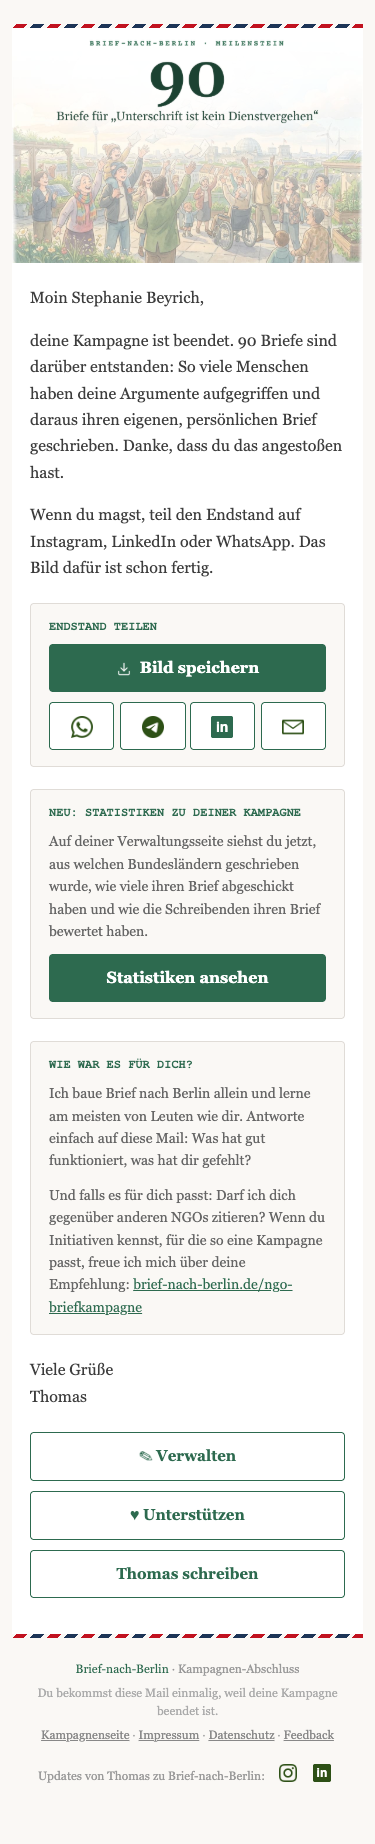
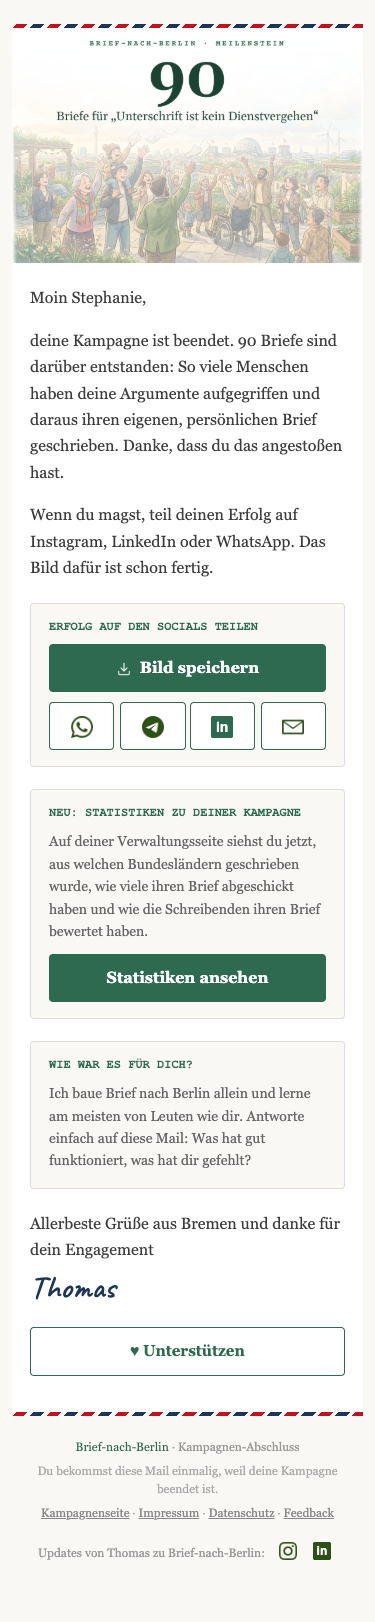
docs: Quick-Task 261009-mxa, Brand-Doku, Roadmap, Aktiv-werden (11 Stufen, Petitionskachel entfernt)

diff --git a/.planning/quick/261009-luq-kampagnen-abschluss-mail-fuer-beendete-k/preview/ended.html b/.planning/quick/261009-luq-kampagnen-abschluss-mail-fuer-beendete-k/preview/ended.html
@@ -70,9 +70,7 @@
               <p style="margin:0 0 22px;font-family:'Caveat','Brush Script MT','Lucida Handwriting',cursive;font-size:32px;color:#1D3557;line-height:1.1;">Thomas</p>
               <table role="presentation" cellpadding="0" cellspacing="0" width="100%" style="margin:0 0 26px;">
                 <tr>
-                  <td class="bnb-cta-cell" style="width:33.33%;padding-right:5px;" valign="top"><a href="https://www.brief-nach-berlin.de/kampagne/verwalten?token=vorschau" target="_blank" rel="noopener noreferrer" class="bnb-cta-link" style="display:block;text-align:center;background-color:#ffffff;color:#2D6A4F;font-size:15px;font-weight:bold;text-decoration:none;padding:12px 8px;border-radius:4px;border:1px solid #2D6A4F;line-height:1.25;">&#9998;&nbsp;Verwalten</a></td>
-                  <td class="bnb-cta-cell" style="width:33.33%;padding:0 5px;" valign="top"><a href="https://spende.we-aid.org/Brief-nach-Berlin" target="_blank" rel="noopener noreferrer" class="bnb-cta-link" style="display:block;text-align:center;background-color:#ffffff;color:#2D6A4F;font-size:15px;font-weight:bold;text-decoration:none;padding:12px 8px;border-radius:4px;border:1px solid #2D6A4F;line-height:1.25;">&#9829;&nbsp;Unterstützen</a></td>
-                  <td class="bnb-cta-cell" style="width:33.33%;padding-left:5px;" valign="top"><a href="mailto:Brief-nach-Berlin@posteo.de" class="bnb-cta-link" style="display:block;text-align:center;background-color:#ffffff;color:#2D6A4F;font-size:15px;font-weight:bold;text-decoration:none;padding:12px 8px;border-radius:4px;border:1px solid #2D6A4F;line-height:1.25;">Thomas schreiben</a></td>
+                  <td class="bnb-cta-cell" style="width:100%;padding-right:5px;" valign="top"><a href="https://spende.we-aid.org/Brief-nach-Berlin" target="_blank" rel="noopener noreferrer" class="bnb-cta-link" style="display:block;text-align:center;background-color:#ffffff;color:#2D6A4F;font-size:15px;font-weight:bold;text-decoration:none;padding:12px 8px;border-radius:4px;border:1px solid #2D6A4F;line-height:1.25;">&#9829;&nbsp;Unterstützen</a></td>
                 </tr>
               </table>
             </td>

diff --git a/web/src/app/(site)/aktiv-werden/page.tsx b/web/src/app/(site)/aktiv-werden/page.tsx
@@ -112,34 +112,18 @@ const cards: ActionCard[] = [
     cta: "Mehr zu Stufe 6",
   },
   {
-    kicker: "Mitzeichnen, 60 Sekunden",
-    title: "Unterstütze die Petition Bremen Rauchfrei",
-    body: (
-      <p>
-        Eine Petition für mehr rauchfreie Außenbereiche in Bremen, von einem
-        Bremer Bürger gestartet. Mitzeichnen kostet eine Minute und ist eines
-        der niedrigschwelligsten politischen Werkzeuge überhaupt: bei 30.000
-        Mitzeichnungen wird eine Bundestags-Petition öffentlich angehört, bei
-        Landes- und Kommunalpetitionen ist die Hürde noch niedriger.
-      </p>
-    ),
-    href: "https://bremen-rauchfrei.de",
-    cta: "Zur Petition",
-    external: true,
-  },
-  {
     kicker: "Der ganze Überblick",
     title: "Die Treppe der politischen Selbstwirksamkeit",
     body: (
       <p>
-        Zehn Stufen, sortiert nach Aufwand: von &bdquo;Wählen gehen&ldquo; über
+        Elf Stufen, sortiert nach Aufwand: von &bdquo;Wählen gehen&ldquo; über
         &bdquo;Leserbrief schreiben&ldquo; bis &bdquo;eigene Bürgerinitiative gründen&ldquo;. Such dir
         die nächste Stufe, die du dir zutraust, und nimm sie. Wer auf Stufe 3
         steht (Brief schreiben), ist schon weiter als 95 % der Bevölkerung.
       </p>
     ),
     href: "/treppe-der-selbstwirksamkeit",
-    cta: "Alle 10 Stufen ansehen",
+    cta: "Alle 11 Stufen ansehen",
   },
 ];
 

diff --git a/.planning/ROADMAP.md b/.planning/ROADMAP.md
@@ -78,6 +78,123 @@ Plans:
 
 ## Backlog
 
+### Phase 999.37: Kampagnen: persönlicher Aufhänger im Wizard (BACKLOG)
+
+**Goal:** Kampagnenbriefe sollen eine persönliche Note bekommen. Viele
+Besucher:innen schicken die Vorlage unverändert ab (Annahme, das Tracking in
+diesem Item prüft das). Ein optionales Feld mit kampagnenspezifischen
+Aufhängern macht es leicht, in ein paar Wörtern zu sagen, wie man selbst
+betroffen ist. Zusammen mit 999.38 sollen viele Briefe einer Kampagne dasselbe
+Thema tragen, ohne dass ein Abgeordnetenbüro eine Vorlage erkennt.
+
+**Scope:**
+- Wizard-Schritt 2b (`StepPreferences`), nur im Kampagnenmodus: optionales Feld
+  "Möchtest du noch etwas Persönliches hinzufügen?". Es erscheint nur, wenn das
+  Anliegen gegenüber der Kampagnenvorlage unverändert ist.
+- Wechselnder Placeholder im Textfeld (z. B. "Letzten Winter habe ich …").
+  Diktieren per Sprache über die bestehende Transkription.
+- Aufhänger-Chips: Bei Erstellung und bei jeder Änderung von `issue_text`
+  erzeugt Mistral 5–6 kampagnenspezifische Aufhänger. Das läuft im bestehenden
+  `after()`-Hook der Themen-Klassifizierung
+  (`web/src/lib/actions/createCampaignDraft.ts:353`, `updateCampaign.ts:334`)
+  mit demselben Schutz `.eq("issue_text", …)`. Gespeichert in einer neuen
+  Spalte in `campaigns` (Migration), das sind Daten des Creators. Der Browser
+  würfelt pro Aufruf 3 davon. Ein Klick fügt einen Chip ins Feld ein, ein Klick
+  auf einen anderen ersetzt ihn, es ist immer nur einer aktiv.
+- Aufhänger sind offene Satzanfänge, die man selbst zu Ende schreibt, keine
+  fertigen Behauptungen. Sonst klicken Leute Fakten an, die nicht stimmen, und
+  dieselben Sätze tauchen in vielen Briefen auf.
+- Eigenes optionales Request-Feld `personalNote`: `WizardData`
+  (`web/src/lib/types/wizard.ts`), `wizardSchemas.ts`, Wizard-State,
+  `/api/generate-letter`, Prompt. Im Prompt ein eigener Block mit Vorrang: Der
+  Satz trägt den Brief.
+- Prompt-Regel: Persönliche Details kommen nur aus `personalNote`, dem Anliegen
+  und PLZ/Ort, nichts wird erfunden. Weder das Wort "Kampagne" noch der Name des
+  Creators stehen im Brief.
+- Tracking nur im Debug-Payload (`web/src/lib/email/buildDebugPayload.ts`):
+  `hasPersonalNote` und `campaignTextEdited`. Den zweiten Wert berechnet der
+  Server per Vergleich mit `campaign.issueText` aus der DB (die Route lädt die
+  Kampagne schon, `route.ts:160`). Kein neues Feld in `letter_signals`.
+
+**Entscheidungen (Grill-Session 2026-10-09):** Creator sehen die Aufhänger
+nicht. Der persönliche Satz bekommt ein eigenes Feld und wird nicht an
+`issueText` angehängt. Nichts aus Nutzerdaten wird gespeichert, auch keine
+Liste in Supabase. Nur Kampagnenbriefe, normale Briefe bleiben unverändert.
+
+**Nicht-Ziel:** Pflichtfeld; Variation der Argumente (das ist 999.38).
+
+**Offene Fragen:** Datenschutz prüfen, ob `personalNote` durch die bestehenden
+Formulierungen zum Anliegen abgedeckt ist (keine Speicherung). Verwandt mit
+999.10 (zweites Eingabefeld "Zielvorstellung"), 999.2 (persönlicher Kontext)
+und 999.3 (Wirksamkeit persönlicher Infos): ähnliches Muster, anderer Zweck.
+
+**Verweist auf:** 999.38 nutzt denselben Extraktions-Aufruf bei der Erstellung
+und erweitert ihn um Hauptanliegen und Argumente.
+
+**Requirements:** TBD
+**Plans:** 0 plans
+
+Plans:
+- [ ] Extraktion der Aufhänger bei Erstellung + Migration
+- [ ] Feld, Chips, Placeholder und Diktat in Schritt 2b
+- [ ] `personalNote` in Request, Prompt und Debug-Payload
+
+### Phase 999.38: Kampagnen: Argument-Variation pro Brief (BACKLOG)
+
+**Goal:** Briefe einer Kampagne sollen nicht alle dieselben Argumente in
+derselben Reihenfolge bringen. Jeder Brief enthält das Hauptanliegen und eine
+zufällige Auswahl der Argumente. Ein Büro erkennt so dasselbe Thema, aber nicht
+dieselbe Vorlage.
+
+**Hintergrund:** Vier Briefe der EEG-Kampagne (Okt. 2026) hatten dasselbe
+Gerüst (Termin, Redispatch-Vorbehalt, fossile Importe, Bundesrat, Forderung)
+und eine fast wörtlich gleiche Forderung. Kampagnen haben heute keine eigene
+Prompt-Logik, `issue_text` geht als Anliegen in den normalen Generator
+(`generateLetter.ts:565`). Recherche: Wählt die KI selbst aus, greift sie zu
+den ersten bzw. stärksten Argumenten. Zufall aus dem Code macht die Texte
+vielfältiger (https://arxiv.org/pdf/2502.19965,
+https://arxiv.org/pdf/2402.01740, https://arxiv.org/pdf/2505.17390v2).
+
+**Scope:**
+- Den Extraktions-Aufruf aus 999.37 erweitern: Mistral liefert das Hauptanliegen
+  (inkl. Kernforderung) und 1–3 Argumente, nur solche, die im Text stehen.
+  Gespeichert als Array in `campaigns` (Migration).
+- Creator sehen und bearbeiten Hauptanliegen und Argumente auf der
+  Verwalten-Seite im Aufklapper "Kampagne bearbeiten"
+  (`web/src/components/campaigns/CampaignManager.tsx:394`).
+- Pro Brief würfelt der Code: Hauptanliegen + n-1 Argumente (mindestens 1), in
+  zufälliger Reihenfolge. Hat der User die Vorlage bearbeitet
+  (Server-Vergleich wie in 999.37), bekommt der Prompt den vollen User-Text wie
+  bisher.
+- Prompt: Forderung inhaltlich gleich, aber in eigenen Worten. Keinen Satz aus
+  der Vorlage wörtlich übernehmen. Optional würfelt der Code den Einstiegstyp
+  (Termin, Betroffenheit, Frage, Zahl).
+- Nachbearbeitung für alle Briefe: " – " / " — " durch ", " ersetzen, mit
+  Unit-Test. Heute verbietet das nur der Prompt (`generateLetter.ts:109`).
+- Prüfung: Lokales Skript erzeugt 10 Briefe einer Kampagne, vorher und nachher.
+  Kriterien: kein Satzteil ab 8 Wörtern identisch in zwei Briefen,
+  Argument-Kombinationen verteilt, nichts Persönliches erfunden, keine
+  Gedankenstriche.
+
+**Entscheidungen (Grill-Session 2026-10-09):** Die Auswahl würfelt der Code,
+nicht die KI. Der Creator füllt keine zusätzlichen Argument-Felder aus. Bei
+weniger als 3 Argumenten wird nichts ergänzt, jeder Brief bekommt eins weniger,
+als es gibt. Nichts aus Nutzerdaten wird gespeichert.
+
+**Hängt ab von:** 999.37 (Extraktions-Aufruf und Migration bei der Erstellung).
+
+**Offene Fragen:** Sollen Änderungen des Creators an den Argumenten
+überschrieben werden, wenn er danach `issue_text` ändert? Vorschlag: neu
+extrahieren und einen Hinweis zeigen.
+
+**Requirements:** TBD
+**Plans:** 0 plans
+
+Plans:
+- [ ] Extraktion um Hauptanliegen und Argumente erweitern + Bearbeitung auf der Verwalten-Seite
+- [ ] Würfel im Code, Prompt-Block für Kampagnen, Dash-Nachbearbeitung
+- [ ] Vergleichsskript vorher/nachher
+
 ### Successpage: Häufige E-Mail-Tippfehler erkennen (BACKLOG)
 
 **Goal:** Auf der Successpage erkennen, wenn die eingegebene Domain sehr wahrscheinlich ein Tippfehler bei einem gängigen Anbieter ist, zum Beispiel `gmail.vom` statt `gmail.com`.

diff --git a/.planning/quick/261009-mxa-unterseite-bundestag-besuch-kostenlos-mi/261009-mxa-PLAN.md b/.planning/quick/261009-mxa-unterseite-bundestag-besuch-kostenlos-mi/261009-mxa-PLAN.md
@@ -1,0 +1,43 @@
+---
+quick_id: 261009-mxa
+mode: quick
+---
+
+# Plan: Unterseite `/bundestag-besuch-kostenlos` + Treppe-Stufe + Bildprompts
+
+## Context
+MdBs können über das Bundespresseamt (BPA) Bürger:innen aus ihrem Wahlkreis kostenlos nach Berlin einladen (Fahrt, Hotel, Teil der Verpflegung). Brief nach Berlin soll dazu eine schöne, kurze Info-Seite bekommen: SEO/GEO stärken, Anleitung zum Anfragen (Anruf/Mail), Wahlkreisveranstaltungen erklären, ein CTA. Kein Briefflow, keine Spende. Die Reise kommt als neue Stufe auf die Treppe der Selbstwirksamkeit.
+
+## Entschieden (Grill-Ergebnis)
+- Slug `/bundestag-besuch-kostenlos`, H1 als Frage. "BPA-Fahrt" in H2/FAQ.
+- Seite ist reine Info + Anleitung. Statt Brief: kurzer höflicher Anruf-/Mail-Text zum Kopieren.
+- CTA = kleine PLZ-Suche -> Karte mit Name, Partei, Wahlkreis + Button "Wahlkreisbüro & Kontakt". Hinweis: Telefon steht meist auf der MdB-Homepage unter "Kontakt".
+- Kleiner Kasten "Ohne MdB": Selbstanmeldung für Plenum/Kuppel beim Besucherdienst (bundestag.de/besuche, kostenlos).
+- Wahlkreisveranstaltungen: erklären (Sitzungswochen vs. Wahlkreiswochen, Bürgersprechstunden), Link auf Bundestags-Sitzungskalender, keine hartcodierten 2027-Termine.
+- Aussagen nur gesichert, "Stand Oktober 2026": BPA zahlt Fahrt/Hotel (Doppelzimmer)/Teil der Verpflegung, MdB entscheidet allein, kein Anspruch, Haushaltsvorbehalt, ab 18. Muster nur als "viele Büros" (Wohnsitz im Wahlkreis, Warteliste, oft keine zweite Teilnahme). Keine Beispiel-MdB, keine Zusagen, kein Betrag "wie viel Eigenanteil".
+- Treppe: neue Stufe 7 "Zur Bundestagsfahrt einladen lassen" (zwischen Bürgersprechstunde und Landtag), verlinkt auf die neue Seite. Stufen ab 7 rücken nach, "10 Stufen" -> 11 überall.
+- Bild: erfundene Abgeordnete, Gruppe vor dem Reichstag im Gespräch auf Augenhöhe, gemischte Gruppe, Ghibli-Stil, Solarpunk nur als Hauch. Ein Hero-Bild 16:9 plus ein eigenes OG-Bild 1.91:1 (Annahme: das ist mit "OG extra" gemeint).
+- Brand-Doku: "Solarpunk nur ein Hauch" punktuell in `.planning/brand-identity.md` eintragen.
+- Ablauf: parallel, Seite mit Platzhalter-Bild; nur meine Dateien committen, und nur auf Zuruf.
+
+## Umsetzung (über `/gsd-quick`, UI mit `/frontend-design`, Struktur mit `add-subpage`)
+1. **Bildprompts** `prompts/bundestag-besuch/image/001-hero-reichstag-gespraech.md` (16:9) und `002-og-reichstag-gespraech.md` (1.91:1), nach dem Format von `prompts/stimmen-hero/image/001-germany-letters-to-reichstag.md` (Header Type/Status/Target tool/Aspect ratio, `## Prompt` Codeblock, Kompositionsnotizen). Regeln aus `.planning/brand-identity.md` 6.2/6.4a: Creme/Waldgrün-Palette, kein Text/UI, keine erkennbaren Politiker, keine Laptops/Handys, kein Stock-Look, keine Parteifarben.
+2. **Brand-Doku**: Solarpunk-Dosierung in `.planning/brand-identity.md` punktuell ergänzen (Datei ist schon dirty, nur dieser Hunk).
+3. **PLZ-Karte (wiederverwendbar, ohne Briefflow)**: neue Client-Komponente `MdbLookupCard` + schlanke Server Action, die `lookupPLZ` aus `web/src/lib/lookup/plzLookup.ts:88` aufruft. Büro-Link per Namens-Join mit `web/data/constituency-offices.json` (nur serverseitig lesen, nicht ins Client-Bundle). Fallback bei fehlendem Match: `abgeordnetenwatchUrl`. Parteikürzel via `formatPartyShort` (`web/src/lib/formatParty.ts`). Mehrere Wahlkreise pro PLZ: alle Treffer zeigen. `Step1Form`/`Step3Success` bleiben unangetastet.
+4. **Seite** `web/src/app/(site)/bundestag-besuch-kostenlos/page.tsx` nach `add-subpage`-Skelett (URL_PATH/PUBLISHED/TITLE/DESCRIPTION 150-160 Zeichen, Metadata mit canonical + OG, FAQPage- und Article-JSON-LD, 4-6 FAQ, `FAQAccordion`, `APP_URL`). Editorial-Komponenten aus `components/editorial/` (Prose, FactCallout, PullQuote, SectionDivider). Aufbau, kurz gehalten: Hero (Frage-H1, Kurzantwort, Bild) -> "Zwei Wege" (BPA-Fahrt mit MdB / Besucherdienst ohne MdB) -> Anleitung in 3 Schritten mit kopierbarem Anruf-/Mail-Text -> Wahlkreisveranstaltungen -> PLZ-Karte als CTA -> FAQ -> Stand-Hinweis. Mindestens 2 interne Links (Treppe, `wahlkreisbuero-oder-berlin`, `guide`). Copy: keine Gedankenstriche, Anti-KI-Checkliste, Sie/Du konsistent zur Site.
+5. **Treppe**: `web/src/app/(site)/treppe-der-selbstwirksamkeit/page.tsx` (`steps`-Array ab Zeile 93): neue Stufe einfügen, `n` neu nummerieren, "10 Stufen" per Grep in Texten/Meta/JSON-LD/Footer auf 11 ziehen, Link auf die neue Seite.
+6. **Sitemap** `web/src/app/sitemap.ts` (priority 0.8), optional Footer-/Guide-Link wie bei den anderen Themenseiten.
+7. **Test**: Unit-Test für den Büro-Join und `MdbLookupCard`-Logik im Stil von `web/src/__tests__/`.
+
+## Verifikation
+- `npm run build`, Lint und Tests grün (Befehle aus `web/package.json`).
+- Preview: Seite auf Desktop + Mobil (375px) per Screenshot, Konsole/Netzwerk ohne Fehler.
+- PLZ-Test: z. B. 28195 (Bremen) liefert MdB-Karte mit funktionierendem Button; eine PLZ mit mehreren Wahlkreisen; ungültige PLZ -> freundliche Fehlermeldung.
+- Treppe zeigt 11 Stufen, Link auf neue Seite funktioniert, keine übrig gebliebenen "10 Stufen".
+- Sitemap enthält die neue URL, JSON-LD parsebar.
+- Platzhalter-Bild ersetzt sich später durch `web/public/images/img-bundestag-besuch.webp` (Dateiname fix vereinbart).
+
+## Offene Annahmen
+- "OG extra" = eigenes OG-Bild 1.91:1 neben dem Hero. Falls nicht gemeint: zweiten Prompt streichen.
+- Namens-Join von 638 Büro-Datensätzen kann einzelne Fehltreffer haben; Fallback abgeordnetenwatch-Link deckt das ab.
+- Die untergeordnete Frage Landtag-Besuche kommt nicht auf die Seite (Ländersache, nicht verifiziert).

diff --git a/.planning/brand-identity.md b/.planning/brand-identity.md
@@ -1,4 +1,4 @@
-# Brand Identity — Brief nach Berlin
+# Brand Identity — Brief-nach-Berlin
 
 > Stand: 25. März 2026 | Status: v1 — Grundlage für Landing Page
 
@@ -6,7 +6,7 @@
 
 ## 1. Markenkern
 
-**Name:** Brief nach Berlin
+**Name:** Brief-nach-Berlin
 **Claim:** Demokratie braucht deine Stimme — wir machen es dir leicht.
 **Elevator Pitch:** Du sagst uns, was dich stört — in deinem Viertel, deiner Stadt oder in der großen Politik. Wir finden den richtigen Abgeordneten, formulieren deinen Brief und du schreibst ihn ab. In fünf Minuten. Handgeschrieben wirkt.
 
@@ -41,7 +41,7 @@
 
 **Nutzer-Frage (im Onboarding möglich):** „Bist du Mitglied einer Partei?" — ermöglicht personalisierte Delegation und Argumentation.
 
-**Was sie eint:** Sie *wollen* etwas tun, aber die Hürde ist zu hoch. Brief nach Berlin senkt diese Hürde auf fünf Minuten.
+**Was sie eint:** Sie *wollen* etwas tun, aber die Hürde ist zu hoch. Brief-nach-Berlin senkt diese Hürde auf fünf Minuten.
 
 ---
 
@@ -127,6 +127,42 @@ Der Nutzer durchläuft auf der Landing Page und im Produkt vier Phasen:
 **Signature Animation:**
 - Wenn die KI den Brief fertig generiert hat: Ein Briefumschlag schließt sich, wird versiegelt und fliegt aus dem Frame
 - Zentrales Markenerlebnis — das ist der „Aha-Moment"
+
+### 6.4a Bildstil für generierte Bilder (Prompts)
+
+Gilt für alle KI-generierten Illustrationen. Fertige Prompts liegen in `prompts/<bereich>/image/`; neue Prompts dort ablegen und von einem bestehenden ableiten, damit der Stil konsistent bleibt.
+
+**Stil:**
+- Studio-Ghibli-Hintergrundkunst (Kazuo Oga): handgemalt, sichtbare Pinselstriche, Aquarell für Himmel und Ferne, Gouache für Mittelgrund
+- Ein idealisiertes, grünes Berlin: Reichstag-Kuppel, Fernsehturm, Windräder, Altbau mit Dachbegrünung und Solarpanels, Fahrräder statt Autos
+- Solarpunk nur als Hauch: Der Ghibli-Look trägt das Bild, Solarpunk ist Beiwerk (junge Linden, Efeu an der Mauer, ein Fahrrad, eine dünne Reihe Solarpanels in der Ferne). Bei Szenen mit Menschen im Vordergrund (z. B. `prompts/bundestag-besuch/`) keine Windräder, keine begrünten Hochhäuser, nichts Futuristisches
+- Warm, hoffnungsvoll, lebendig, nie kitschig oder niedlich
+- Europäische Architektur mit japanischer Animationssensibilität (Kiki, Howl), geerdet in echtem Berliner Altbau
+
+**Farben:**
+- Dominant gestaffelte Grüntöne (Waldgrün #2D6A4F, Salbei, Oliv, Moos)
+- Creme #FAF8F5 und Sandstein für Gebäude und Papier
+- Goldenes Licht wie Honig, nicht Orange; blaugrüne Schatten, nie Schwarz
+- Akzente sparsam: gedämpftes Airmail-Rot (#C1121F) und Airmail-Blau (#1D3557), z. B. Briefkasten, Briefumschlag
+- Keine Parteifarben, kein Logo einer Partei
+
+**Motive:**
+- Der Brief und der Briefumschlag als roter Faden (Airmail-Rand, Briefmarke)
+- Menschen klein und freundlich im Bild, keine Menschenmassen, keine erkennbaren Politiker:innen
+- Handschrift und Papier statt Technik (kein Laptop, kein Handy im Bild)
+
+**Ausschlüsse:**
+- Kein Text, keine UI-Elemente, keine lesbare Schrift auf Briefen
+- Kein Stock-Foto-Look, kein „AI Glow", keine Glossy-3D-Optik
+
+**Ränder und Seitenverhältnis:**
+- Standard: sauberes Rechteck bis zum Rand, das Ausblenden in Creme macht das CSS
+- Ausnahme Hero (`prompts/cta-background/`): weicher Verlauf in Creme #FAF8F5, leicht abgedunkelt (70–80 %) wegen Text darüber
+- Seitenverhältnis je Container angeben (16:9, 4:3, 3:2, 1:1)
+
+**Workflow:**
+- Erst ein Referenzbild festlegen (Komposition, Farbe, Stil), dann Video daraus ableiten
+- Video: statische Kamera, nur dezente Bewegung (Blätter, Vögel, ein Fahrrad, Windräder), nahtlose Schleife; der Video-Prompt beschreibt nur, was sich bewegt
 
 ### 6.5 Ikonisches Element
 

diff --git a/.planning/todos/pending/2026-10-08-kampagnen-s4-danke-mail-zum-kampagnenende.md b/.planning/todos/pending/2026-10-08-kampagnen-s4-danke-mail-zum-kampagnenende.md
@@ -17,6 +17,15 @@ files:
 - Offen ist nur noch der automatische Auslöser: direkt in `endCampaignAction`, kein Cron, weil es noch keinen Vercel-Cron gibt. Dazu die Spalte `ended_notified_at`.
 - Die Feedback-Bitte läuft per Antwort auf die Mail (`replyTo` auf `FOUNDER_EMAIL`).
 - Testimonials von NGOs pflegt Thomas später von Hand (`creatorTestimonials.ts` und ein Block auf `/ngo-briefkampagne`), sobald die erste Zitat-Freigabe da ist. Eine eigene Bewertungsseite ist bewusst nicht geplant.
+- Erster Versand von Hand am 2026-10-09 an die NRV-Kampagne `unterschrift-ist-kein-dienstvergehen` (90 Briefe). Anrede mit Vorname über `--name`, weil `creator_name` oft der volle Name ist.
+
+### Für die schönere Version (Thomas will die Mail noch ausbauen)
+- Den Empfehlungsteil wieder aufnehmen, für den ersten Versand bewusst rausgenommen: „Darf ich dich gegenüber anderen NGOs zitieren?“ und die Bitte, Initiativen auf `/ngo-briefkampagne` hinzuweisen.
+- Kopfbild: Die Bild-Route `kampagne/[slug]/meilenstein/[stufe]/bild` schreibt fest „Meilenstein“ ins Bild. Eine eigene Variante „Abschluss“ prüfen.
+- Anrede: Für den Vornamen entweder ein Feld `creator_first_name` oder eine Heuristik (erstes Wort von `creator_name`). Bei Organisationsnamen keine Heuristik.
+- Zahlen in die Mail selbst holen (ab Schwelle 10): Abschickquote, Sterne-Schnitt, Top-Bundesländer aus `getCampaignCreatorStats`, damit die NGO sie direkt zitieren kann, ohne die Verwaltungsseite zu öffnen.
+- Grußformel und handschriftliche Signatur (Caveat) wie beim ersten Versand beibehalten.
+- Buttons am Ende: kein „Verwalten“ und kein „Thomas schreiben“ (seit 2026-10-09 entfernt). Zur Verwaltungsseite kommt man über „Statistiken ansehen“, Kontakt läuft über die Antwort auf die Mail. Perspektivisch genau zwei Buttons: „♥ Unterstützen“ (Spende) und „Feedback geben“. Für „Feedback geben“ klären: Antwort auf die Mail (`mailto:` mit Betreff), `CAMPAIGN_CREATOR_FEEDBACK_URL` (heyspeak) oder später ein eigenes Formular für Ersteller:innen. Dann kann die Feedback-Box im Text kürzer werden.
 
 ## Problem
 

diff --git a/.planning/quick/261009-mxa-unterseite-bundestag-besuch-kostenlos-mi/261009-mxa-SUMMARY.md b/.planning/quick/261009-mxa-unterseite-bundestag-besuch-kostenlos-mi/261009-mxa-SUMMARY.md
@@ -1,0 +1,23 @@
+---
+quick_id: 261009-mxa
+status: complete
+---
+
+# Quick 261009-mxa: Unterseite /bundestag-besuch-kostenlos
+
+## Ergebnis
+- Neue Seite `web/src/app/(site)/bundestag-besuch-kostenlos/page.tsx` (Frage-H1, zwei Wege, 3 Schritte mit kopierbarem Anruftext, Wahlkreisveranstaltungen, 6 FAQ, Article- und FAQPage-JSON-LD, Stand Oktober 2026).
+- PLZ-Karte `MdbLookupCard` + Server Action `lookupMdbContactAction`, Logik in `web/src/lib/lookup/mdbContact.ts` (Namens-Join mit `constituency-offices.json`, Fallback abgeordnetenwatch-Link).
+- Treppe: neue Stufe 7, Stufen 8 bis 11, "elf Stufen" in Treppe, FAQ, Meta, `aktiv-werden`.
+- Sitemap-Eintrag (Priorität 0.8).
+- Bildprompts `prompts/bundestag-besuch/image/001` (16:9) und `002` (OG 1.91:1). Seite zeigt Hero/OG automatisch, sobald `web/public/images/img-bundestag-besuch.webp` und `og-bundestag-besuch.webp` existieren.
+- `.planning/brand-identity.md` 6.4a: "Solarpunk nur als Hauch".
+
+## Verifikation
+- `npx jest`: 110 Suites, 923 Tests grün (neu: `mdbContact.test.ts`, 8 Tests).
+- ESLint auf allen geänderten Dateien sauber, `tsc` ohne Fehler in den geänderten Dateien (vorhandene Fehler in iCloud-Duplikaten unter `.next/` und `campaignTopicReset.test.ts` sind nicht von dieser Aufgabe).
+- Browser: Seite lädt ohne Konsolenfehler, PLZ 28195 liefert 4 Abgeordnete mit Büroadresse und Link, mobil (375px) kein horizontaler Scroll, keine Gedankenstriche.
+
+## Nicht geprüft
+- `npm run build` nicht gelaufen (ein anderer Dev-Server nutzt `.next` im selben Ordner).
+- Bilder fehlen noch, Hero und OG erscheinen erst nach dem Ablegen der Dateien.

diff --git a/.planning/STATE.md b/.planning/STATE.md
@@ -4,10 +4,10 @@ milestone: v1.0
 current_phase: 05
 status: verifying
 stopped_at: Completed 05-04-PLAN.md
-last_updated: "2026-10-09T14:02:29.966Z"
+last_updated: "2026-10-09T14:37:49.687Z"
 last_activity: 2026-10-09
 last_activity_desc: "Completed quick task 260710-dgq: Kampagnen-Ziel-Ebene Bund/Landtag inkl. Wizard-Bindung und Mismatch-Fallback"
-state_head: 25fc8879478a7af2f01deefbd8d975abfa4a6c2d
+state_head: 654517fe894e65cf341223b097d6b15368da2b12
 progress:
   total_phases: 33
   completed_phases: 4
@@ -176,6 +176,7 @@ Recent decisions affecting current work:
 | 261009-kn2 | Kampagne verwalten: Sprunglinks + Kontakt in Navbar, Zahlen-Refresh | 2026-10-09 | fc1f971 | [261009-kn2-kampagne-verwalten-navbar-sprunglinks-ko](./quick/261009-kn2-kampagne-verwalten-navbar-sprunglinks-ko/) |
 | 261009-lms | Kampagnen-Zahlen schaerfen (Teilsterne, Ohnmacht als Kontext) und Empfehlungskarte + Meilenstein-Mail-Zeile | 2026-10-09 | 2cb17b2 | [261009-lms-kampagnen-zahlen-schaerfen-und-empfehlun](./quick/261009-lms-kampagnen-zahlen-schaerfen-und-empfehlun/) |
 | 50 | Vorher-Kachel zurueck, Icons, Hover-Datum/KW im Verlauf, Taube statt Herz | 2026-10-09 | 25fc887 | — |
+| 261009-mxa | Unterseite /bundestag-besuch-kostenlos, PLZ-MdB-Karte, Treppe-Stufe 7 | 2026-10-09 | 654517f | [261009-mxa-unterseite-bundestag-besuch-kostenlos-mi](./quick/261009-mxa-unterseite-bundestag-besuch-kostenlos-mi/) |
 
 ## Session Continuity
 

diff --git a/prompts/stimmen-hero/image/001-germany-letters-to-reichstag.md b/prompts/stimmen-hero/image/001-germany-letters-to-reichstag.md
@@ -96,7 +96,7 @@ coastlines and the Alps silhouette.
 - **Reichstag prominence**: Slightly larger than strict scale would allow, on the right where Berlin is. It should read clearly as "the destination" without dominating the frame.
 - **Voices, not text**: Soft glowing dots / firefly motes, NOT speech bubbles with words. Lets the viewer project their own voice.
 - **Letters in flight**: One or two, not a swarm. Hand-folded paper feel, curved trajectories toward Berlin.
-- **Even regional spread**: The voice-glows should appear across north, south, east, west — Brief nach Berlin is not just a Berlin thing.
+- **Even regional spread**: The voice-glows should appear across north, south, east, west — Brief-nach-Berlin is not just a Berlin thing.
 
 ## Layout Use
 

diff --git a/prompts/cta-background/README.md b/prompts/cta-background/README.md
@@ -1,4 +1,6 @@
-# CTA Background Prompts — Brief nach Berlin
+# CTA Background Prompts — Brief-nach-Berlin
+
+Overall image style for all prompts: see `.planning/brand-identity.md`, section 6.4a. Brand name is always written "Brief-nach-Berlin" (with hyphens).
 
 Prompts for generating the landing page hero/CTA section background (image + video).
 
